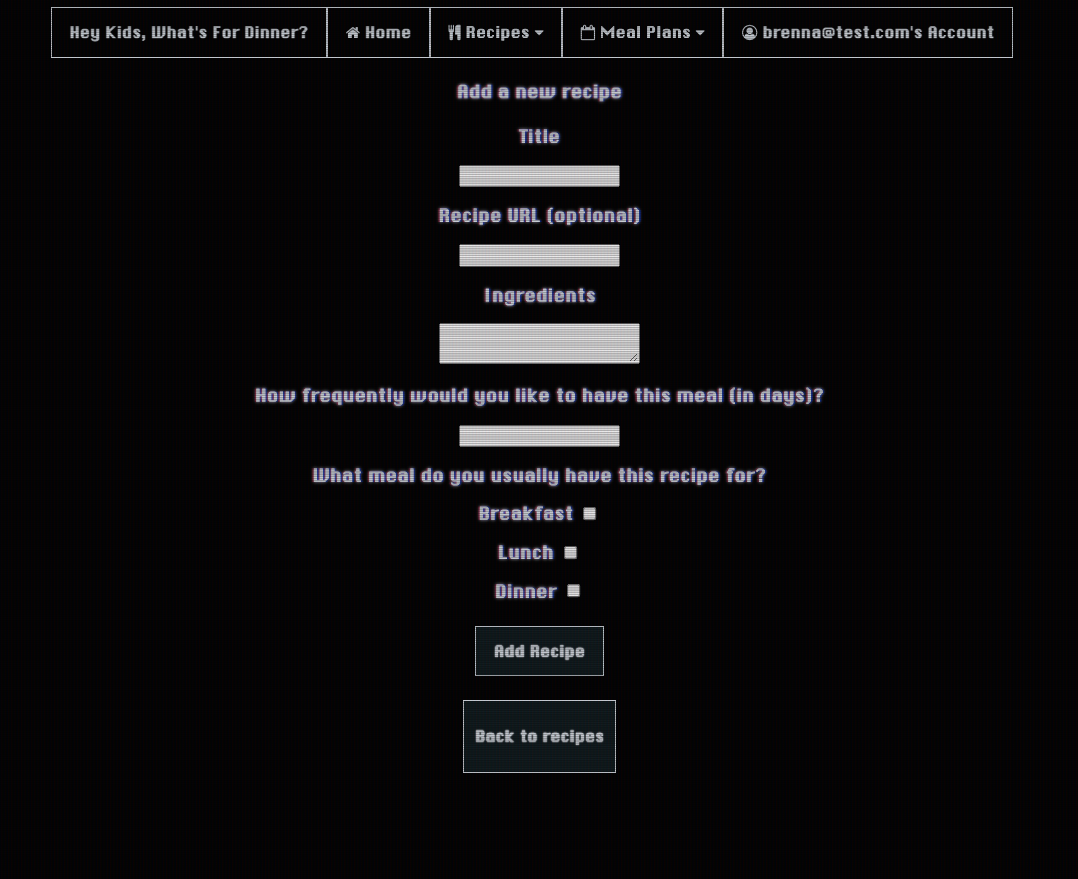
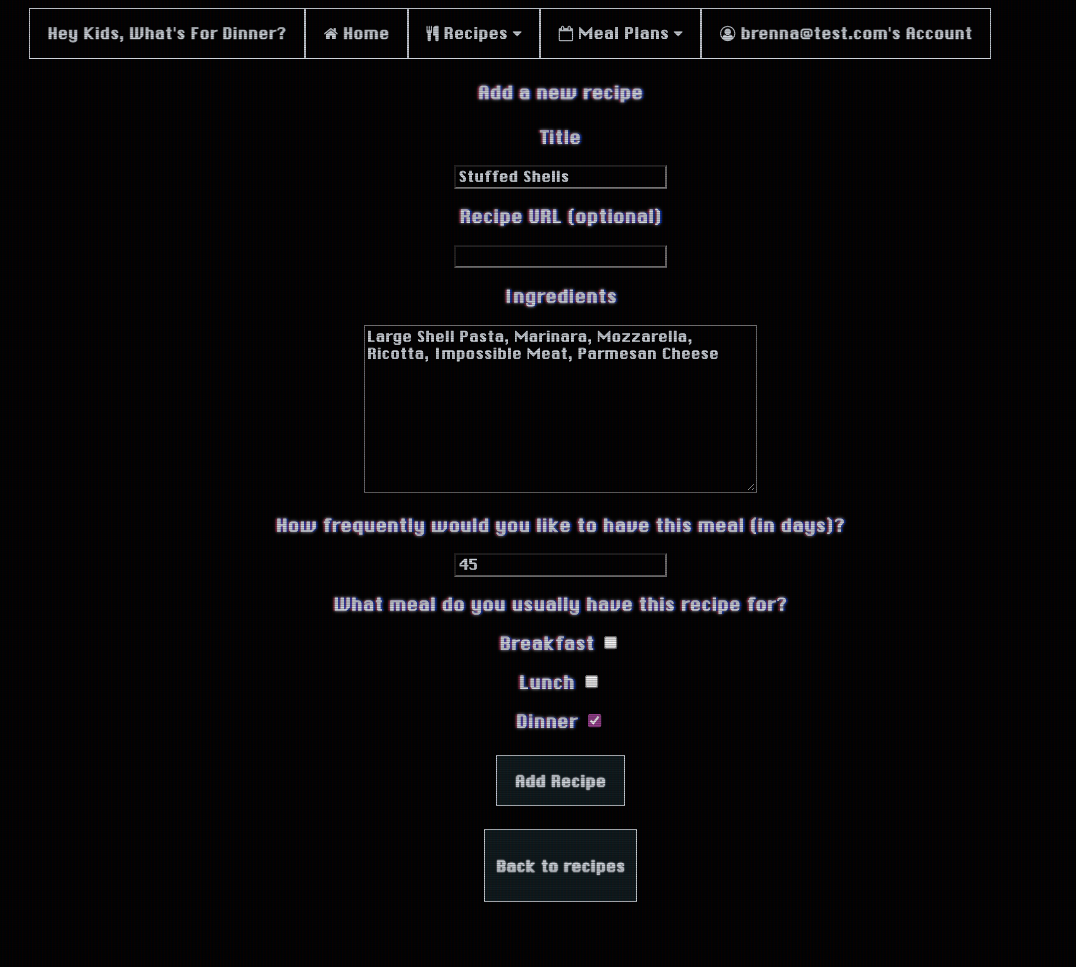
update input boxes

Changed region(s): [[0.0307, 0.0, 0.9201, 0.9522]]

diff --git a/WhatsForDinner/wwwroot/css/styles.css b/WhatsForDinner/wwwroot/css/styles.css
@@ -70,9 +70,9 @@ a:hover{
   background-color: black;
   font-family: 'chicagoflfregular';
   font-size: 14px;
-  display: block;
   max-width: 100%;
   margin-left:40px;
+  display: inline-block;
 }
 
 .navbar a {
@@ -351,6 +351,12 @@ padding: 20px;
   animation: textShadow 1.6s infinite;
   margin: 10px;
   text-align: center;
+}
+
+input, textarea{
+  background-color: black;
+  font-family: 'chicagoflfregular';
+  color: rgb(218,224,231);
 }
 
 /* todo: finish styling */
